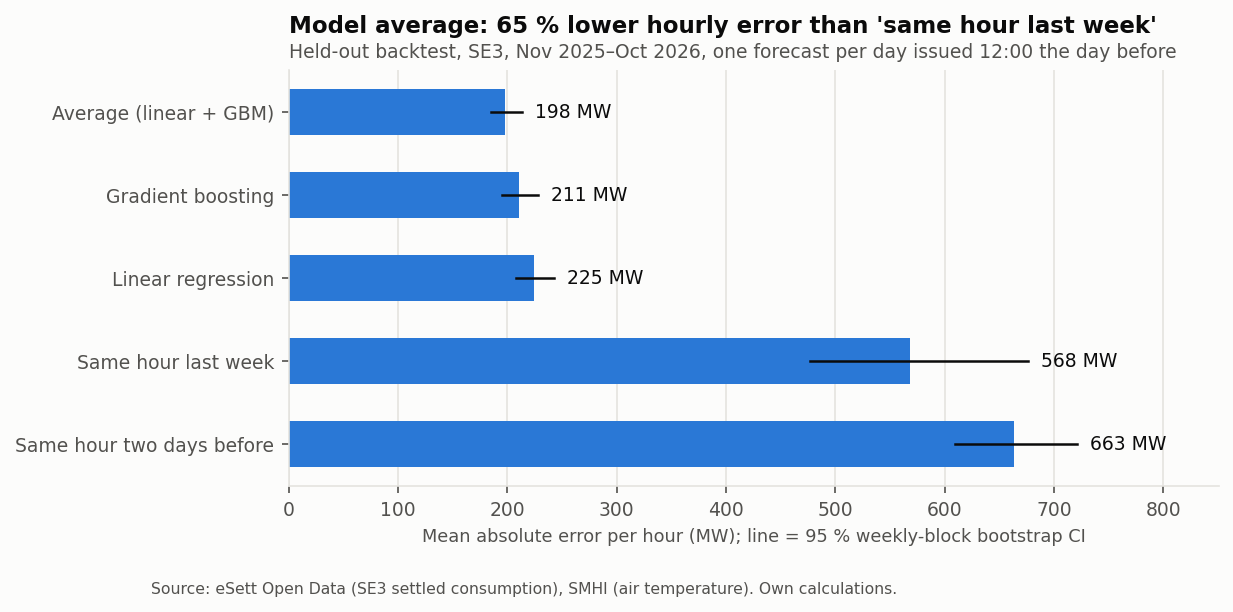
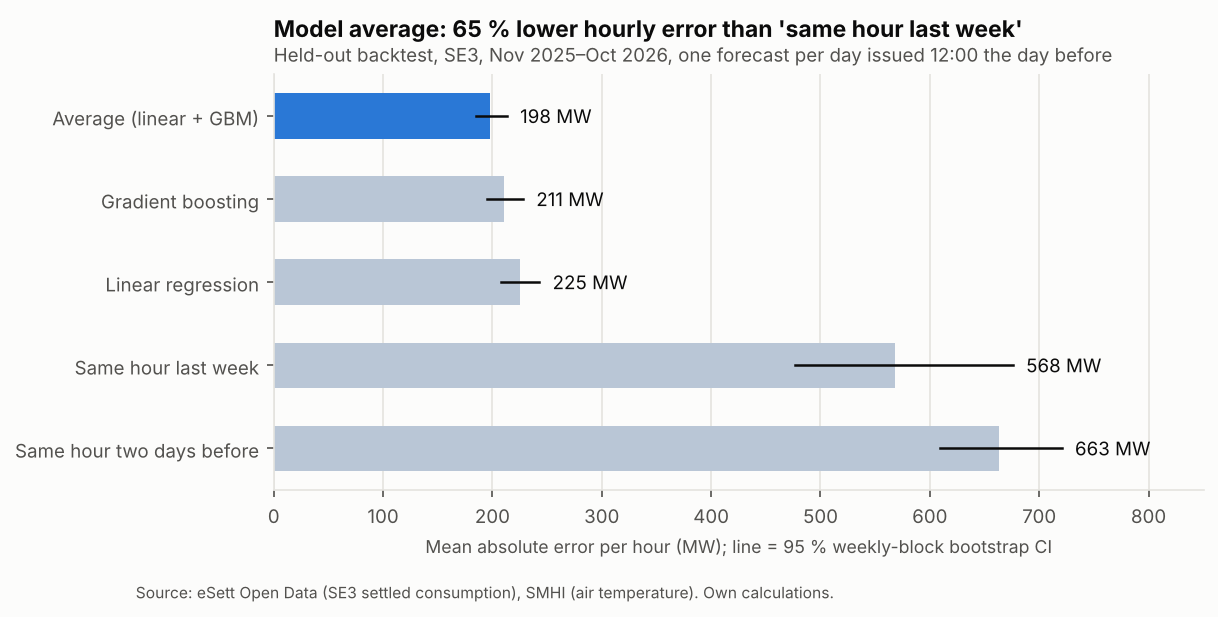
Lead README with short findings and explain every figure
- Key findings shortened to five one-line points; the full numbers move
  to a "Findings in detail" section (check_readme still passes 49/49)
- Plain-language intro and "How to read it" caption under every figure
- MAE chart highlights the recommended model; coverage chart uses words
  instead of decision ids and puts values inside the bars

Claude-Session: https://claude.ai/code/session_01CsgMCppWsBDFEeRSiFs1nU

diff --git a/src/se3load/figures.py b/src/se3load/figures.py
@@ -18,6 +18,7 @@ SURFACE = "#fcfcfb"
 TEXT = "#0b0b0b"
 TEXT_2 = "#52514e"
 GRID = "#e4e3df"
+MUTED_BAR = "#b9c6d6"
 BLUE = "#2a78d6"
 ORANGE = "#eb6834"
 SOURCE = "Source: eSett Open Data (SE3 settled consumption), SMHI (air temperature). Own calculations."
@@ -159,13 +160,18 @@ def hero_week(pred: pd.DataFrame, path: Path, title: str, subtitle: str) -> None
 
 
 def mae_by_model(rows: list[dict], path: Path, title: str, subtitle: str = "",
-                 source: str = SOURCE) -> None:
-    """Horizontal bars: backtest MAE per model with 95 % block-bootstrap CI."""
+                 source: str = SOURCE, highlight: str | None = None) -> None:
+    """Horizontal bars: backtest MAE per model with 95 % block-bootstrap CI.
+
+    ``highlight`` is the label of the bar to emphasise (the others are drawn muted);
+    with None every bar is drawn in the same colour.
+    """
     rows = sorted(rows, key=lambda r: r["mae"], reverse=True)
     fig, ax = plt.subplots(figsize=(8, 3.6), dpi=150)
     fig.patch.set_facecolor(SURFACE)
     y = range(len(rows))
-    ax.barh(list(y), [r["mae"] for r in rows], color=BLUE, height=0.55)
+    colors = [BLUE if highlight is None or r["label"] == highlight else MUTED_BAR for r in rows]
+    ax.barh(list(y), [r["mae"] for r in rows], color=colors, height=0.55)
     for i, r in enumerate(rows):
         ax.plot(r["ci"], [i, i], color=TEXT, linewidth=1.2)
         ax.text(r["ci"][1] + 12, i, f"{r['mae']:.0f} MW", va="center", color=TEXT, fontsize=9)
@@ -195,14 +201,17 @@ def coverage_before_after(rows: list[dict], path: Path, title: str, subtitle: st
     fig.patch.set_facecolor(SURFACE)
     h = 0.36
     for i, r in enumerate(rows):
-        for j, (key, color, label) in enumerate((("before", BLUE, "Model intervals (D19)"),
-                                                 ("after", ORANGE, "Recalibrated online (D21)"))):
+        for j, (key, color, label) in enumerate((
+                ("before", BLUE, "The model's own intervals"),
+                ("after", ORANGE, "Recalibrated on the last 90 days"))):
             y = i + (h / 2 if j == 0 else -h / 2)
             v = r[key]["coverage_80_pct"]
-            ax.barh(y, v, height=h, color=color, label=label if i == 0 else None)
+            ax.barh(y, v, height=h * 0.92, color=color, label=label if i == 0 else None)
             lo, hi = r[key]["wilson95_on_days_pct"]
             ax.plot([lo, hi], [y, y], color=TEXT, linewidth=1.0)
-            ax.text(hi + 1, y, f"{v:.0f} %", va="center", color=TEXT, fontsize=8.5)
+            # Value inside the bar end, so it never collides with the whisker or the 80 % line.
+            ax.text(min(v, lo) - 1.5, y, f"{v:.0f} %", va="center", ha="right",
+                    color="white", fontsize=8.5, fontweight="bold")
     ax.axvline(80, color=TEXT_2, linewidth=1, linestyle=(0, (4, 3)))
     ax.text(80.8, -0.62, "nominal 80 %", color=TEXT_2, fontsize=8, ha="left", va="center")
     ax.set_yticks(range(len(rows)), [r["label"] for r in rows])

diff --git a/scripts/run_pipeline.py b/scripts/run_pipeline.py
@@ -585,7 +585,8 @@ def evaluate_stage() -> None:
         f"Model average: {-out['primary_average_vs_seasonal_naive']['pct_vs_b']:.0f} % lower "
         "hourly error than 'same hour last week'",
         f"Held-out backtest, SE3, {pd.Timestamp(start):%b %Y}–{pd.Timestamp(end):%b %Y}, "
-        "one forecast per day issued 12:00 the day before")
+        "one forecast per day issued 12:00 the day before",
+        highlight=labels["average"])
     temp_daily = feat.groupby("local_date")["temp"].mean()
     temp_daily = temp_daily[(temp_daily.index >= start) & (temp_daily.index <= end)]
     coldest = pd.Timestamp(temp_daily.idxmin())
@@ -752,7 +753,7 @@ def extensions_stage() -> None:
     out["d21"]["forecast_day2_corrected"] = extensions.calibration_summary(cal_fc)
 
     # Figures
-    labels = {"observed": "Observed temperature (D19 setup)",
+    labels = {"observed": "Observed temperature (main backtest)",
               "forecast_day1_raw": "Forecast, ~24 h runs, raw",
               "forecast_day1_corrected": "Forecast, ~24 h runs, bias-corrected",
               "forecast_day2_raw": "Forecast, ~48 h runs, raw",

diff --git a/README.md b/README.md
@@ -8,6 +8,10 @@ weather observations from SMHI. On a full held-out year its hourly error is abou
 
 ![Day-ahead forecast vs actual in the coldest week of the backtest](reports/figures/hero_cold_week.png)
 
+*How to read it: the dashed line is how much electricity SE3 actually used each hour in the coldest week of the test year; the blue line is what the model forecast at noon the day before. The shaded band is where the model expected the true value to land 8 times out of 10.*
+
+**In plain words:** an electricity company must tell the market every day at noon how much power its customers will use each hour tomorrow, and pays for every mistake. This project builds that forecast for the Stockholm–Göteborg region from the weather and the calendar, and tests it honestly on a full year it had never seen.
+
 ## Business question
 
 An electricity retailer that is balance-responsible in SE3 must submit tomorrow's hourly
@@ -20,11 +24,40 @@ settled as imbalance.
 
 ## Key findings
 
+Held-out year Nov 2025 – Oct 2026, one forecast per day issued at 12:00 the day before.
+
+- **65 % smaller error than the simple rule.** The averaged model misses by 198 MW per hour on average; "same hour last week" misses by 568 MW.
+- **Two models beat one.** Linear regression and gradient boosting err in opposite directions in cold weather, so their average is better than either.
+- **Daily peaks are forecast too low** by about 90 MW at the daily maximum; a margin learned from recent days fixes most of it.
+- **Each degree of cold adds about 200 MW** of load below 15 °C, about 11 % less than before the 2022 energy crisis.
+- **The result holds with real weather forecasts:** the error rises only to 209–220 MW per hour.
+
+![Backtest error by model](reports/figures/backtest_mae_by_model.png)
+
+*How to read it: each bar is a forecasting method; shorter is better. The black line is the 95 % uncertainty range. The highlighted bar is the model the project recommends.*
+
+The full table and the reasoning behind each number are under [Findings in detail](#findings-in-detail).
+
+## Recommendation
+
+- **Replace a seasonal-naive rule with the averaged model.** The gain is large, clearly
+  outside the uncertainty, and holds in winter, summer, weekdays, weekends and holidays.
+- **Add a peak margin learned from recent days** and recalibrate the intervals online.
+  Adding the median gap between actual and forecast daily maximum over the last 90
+  known days (about 64 MW) cuts the under-forecast of the daily maximum from −104 to
+  −28 MW, and online recalibration brings the 80 % interval from 75 % to 81 % coverage
+  (with real weather forecasts; see Extensions).
+- **Plan with ≈ 200 MW of extra load per °C of colder daily mean** below 15 °C, more at
+  17:00 (231 MW/°C) and 07:00 (219 MW/°C).
+- **Before production:** use a bias-corrected day-ahead temperature forecast as input, and
+  watch the load bias. Load in mid-2026 ran 70–240 MW above 2025 at similar temperatures, and the model
+  adapts slowly (overall bias −55 MW).
+
+## Findings in detail
+
 Held-out backtest, 1 Nov 2025 – 31 Oct 2026: 365 forecasts issued at 12:00 the day before,
 8,760 hours, models refitted every 28 days on data known at the time. Pre-registered in
 [docs/decisions.md](docs/decisions.md) (D19) and run once.
-
-![Backtest error by model](reports/figures/backtest_mae_by_model.png)
 
 | Model | MAE per hour (95 % CI) | MAPE | MASE | 80 % interval coverage |
 |---|---|---|---|---|
@@ -59,21 +92,6 @@ Held-out backtest, 1 Nov 2025 – 31 Oct 2026: 365 forecasts issued at 12:00 the
    pessimistic: real forecast errors were 0.6–0.7 °C. This was added after the backtest
    (see [Extensions](#extensions-after-the-backtest)).
 
-## Recommendation
-
-- **Replace a seasonal-naive rule with the averaged model.** The gain is large, clearly
-  outside the uncertainty, and holds in winter, summer, weekdays, weekends and holidays.
-- **Add a peak margin learned from recent days** and recalibrate the intervals online.
-  Adding the median gap between actual and forecast daily maximum over the last 90
-  known days (about 64 MW) cuts the under-forecast of the daily maximum from −104 to
-  −28 MW, and online recalibration brings the 80 % interval from 75 % to 81 % coverage
-  (with real weather forecasts; see Extensions).
-- **Plan with ≈ 200 MW of extra load per °C of colder daily mean** below 15 °C, more at
-  17:00 (231 MW/°C) and 07:00 (219 MW/°C).
-- **Before production:** use a bias-corrected day-ahead temperature forecast as input, and
-  watch the load bias. Load in mid-2026 ran 70–240 MW above 2025 at similar temperatures, and the model
-  adapts slowly (overall bias −55 MW).
-
 ## Extensions after the backtest
 
 These two analyses were added after the pre-registered backtest (D19) had been run, to
@@ -90,9 +108,11 @@ subtracts the mean error of the same hour over the previous 28 known days.
 
 ![MAE with real weather forecasts](reports/figures/real_weather_forecast_mae.png)
 
+*How to read it: the same model fed with different temperature inputs. The top bar uses the temperature that actually occurred, which no one knows at noon the day before; the others use real archived weather forecasts. Shorter is better.*
+
 | Temperature input | MAE per hour (95 % CI) | vs observed | vs same hour last week |
 |---|---|---|---|
-| Observed (D19 setup) | 198.2 MW (184.8–213.3) | – | −65.1 % |
+| Observed (main backtest) | 198.2 MW (184.8–213.3) | – | −65.1 % |
 | ~24 h runs, bias-corrected | 209.0 MW (193.3–226.9) | +10.8 MW | −63.2 % |
 | ~48 h runs, bias-corrected | 220.0 MW (203.7–237.8) | +21.8 MW | −61.3 % |
 | ~48 h runs, raw | 219.0 MW (201.5–238.2) | +20.8 MW | −61.4 % |
@@ -104,6 +124,8 @@ margin adds the median recent gap between the actual and the forecast daily maxi
 The first 29 days have no history and are left out of both columns below.
 
 ![Interval coverage before and after recalibration](reports/figures/interval_recalibration.png)
+
+*How to read it: an "80 % interval" should contain the true value 80 % of the time (dashed line). Blue bars fall short, so the model was over-confident; orange bars show the coverage after widening the intervals with the errors of the last 90 days.*
 
 | With ~48 h bias-corrected forecasts | Before | After |
 |---|---|---|
@@ -157,6 +179,8 @@ Swedish electricity use excluding grid losses to within 2.5 %. SE3 is about 63 %
 national consumption.
 
 ![Load vs temperature](reports/figures/load_vs_temperature.png)
+
+*How to read it: each dot is one working day. The colder the day (further left), the more electricity SE3 uses; below about 15 °C the relationship is close to a straight line. Orange dots (2023–2026) sit below blue ones (2019–2021): at the same temperature, less power is used since the 2022 energy crisis.*
 
 ## How to run
 
